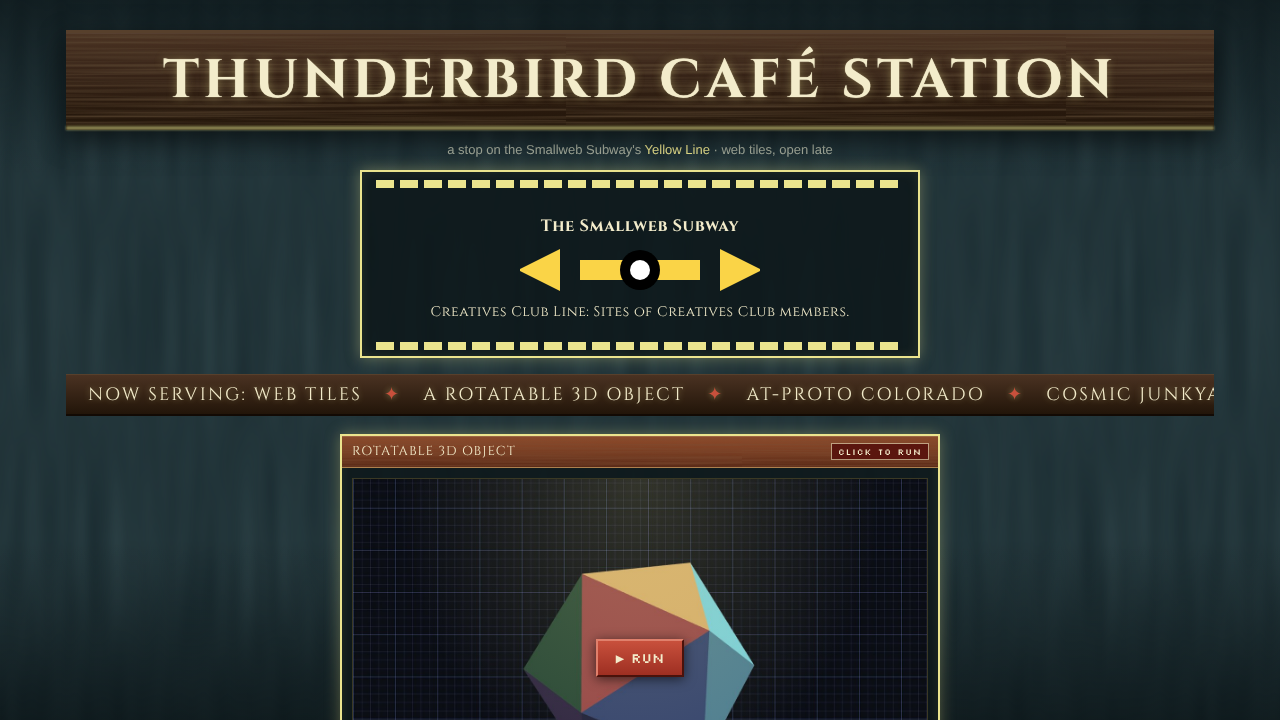
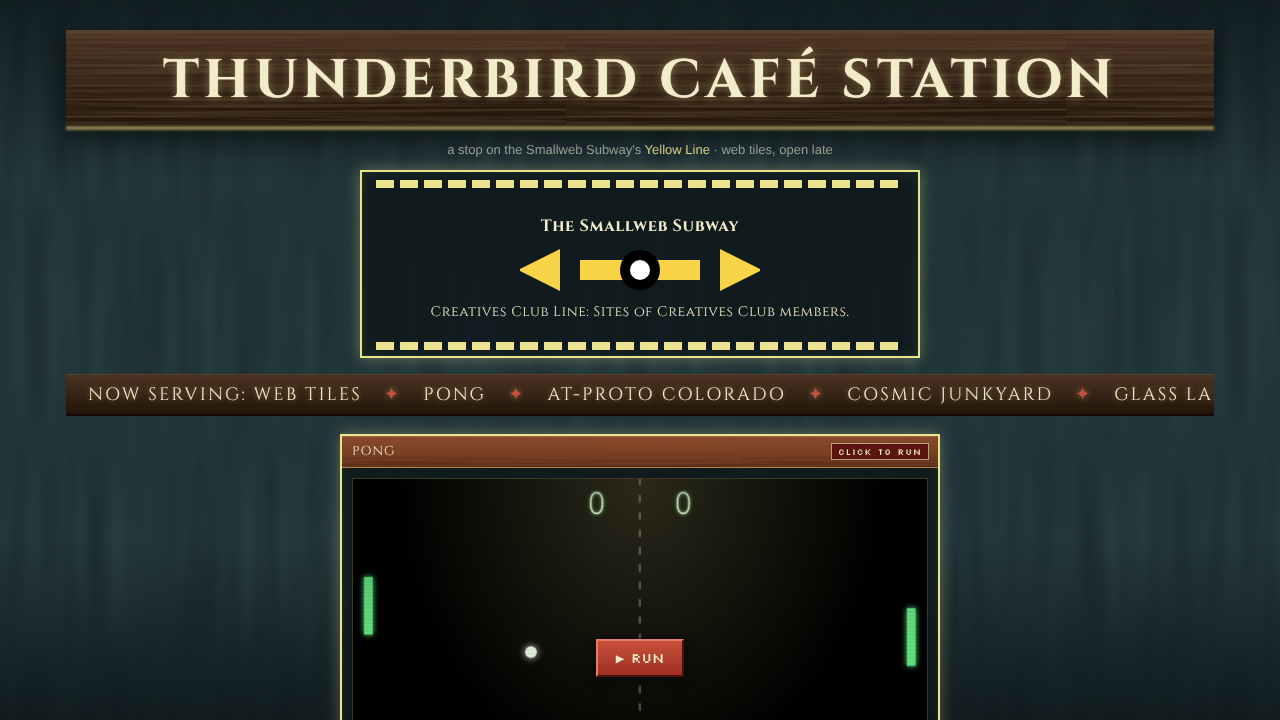
Station: Pong replaces the rotatable 3D object; the Smallweb Subway button in solid yellow-green

Changed region(s): [[0.2812, 0.6111, 0.7188, 1.0], [0.3438, 0.5194, 0.9375, 0.5806]]

diff --git a/src/station/config.js b/src/station/config.js
@@ -4,8 +4,9 @@
 // The eight tiles, in the order agreed with the owner (ST4, ST9, ST11). `run` tiles (heavy WebGL) show their banner
 // with ▶ RUN and load only when clicked; the others load as they come near (ST5). The maze's card carries the loop
 // to Winter Forest and back (ST6, ST13). Pictures come straight from each account's server, as the Live Gallery
-// does (src/lib/tile-gallery/render.js), except the 3D object's, a screenshot kept with this page (ST10).
-// Record CIDs are as read on Nov 2 2026; the cards load each tile's current record, as the blog's embeds do.
+// does (src/lib/tile-gallery/render.js), except Pong's, a screenshot kept with this page (ST16; it replaced the
+// Rotatable 3D Object Nov 3). Record CIDs are as read on Nov 2 2026 (Pong's wasn't read: it isn't used); the cards
+// load each tile's current record, as the blog's embeds do.
 
 const PDS = {
   thunderbird: 'https://fibercap.us-west.host.bsky.network',
@@ -26,11 +27,11 @@ export const raku = (uri) => `https://raku.lexicographer.space/#t=${encodeURICom
 
 export const TILES = [
   {
-    id: 'object-3d', name: 'Rotatable 3D Object', run: true,
-    uri: tile('thunderbird', '3mw763im3qw2t'), cid: 'bafyreieqxjigvgstwd2p2r53gz2y5dyi2u2wv6o6garhq537azuy3bke7a',
-    picture: '/webtiles/station/3d-object.jpg', pictureAlt: 'A many-coloured icosahedron on a dark grid',
-    caption: 'Drag it, spin it, zoom in. The gear can set it turning or change its shape.',
-    post: { href: '/blog/embedding-a-web-tile/', label: 'read the post' },
+    id: 'pong', name: 'Pong', run: true,
+    uri: tile('thunderbird', '3mwbkd6kudm2m'), cid: null,
+    picture: '/webtiles/station/pong.jpg', pictureAlt: 'A game of Pong: two green paddles, a ball and the score, zero to zero',
+    caption: 'A small game of Pong. Keep the rally going.',
+    post: { href: '/blog/web-tiles-gallery/', label: 'read the post' },
   },
   {
     id: 'colorado', name: 'at-proto Colorado',

diff --git a/src/station/station.css b/src/station/station.css
@@ -233,7 +233,7 @@ a:focus-visible, button:focus-visible { outline: 2px solid var(--fluor); outline
 .b88.b { background: linear-gradient(180deg, var(--brick-hi), var(--brick)); color: var(--cream); }
 .b88.c { background: #0f1f22; color: var(--glass); }
 .b88.d { background: var(--fluor); color: #1a1a10; }
-.b88.e { background: repeating-linear-gradient(90deg, var(--fluor) 0 8px, #1a1a10 8px 10px); color: #1a1a10; text-shadow: 0 0 2px #fff; }
+.b88.e { background: #9cb36a; color: #1a1a10; }   /* the Smallweb Subway: solid yellow-green (owner, Nov 3) */
 .b88.f { background: var(--cream); color: var(--wood); }
 footer { text-align: center; margin-top: 20px; color: var(--muted); font-size: 11px; }
 footer .tiny { font-family: var(--sign-font); letter-spacing: .15em; text-transform: uppercase; font-size: 11px; margin-top: 6px; color: var(--ochre); }
